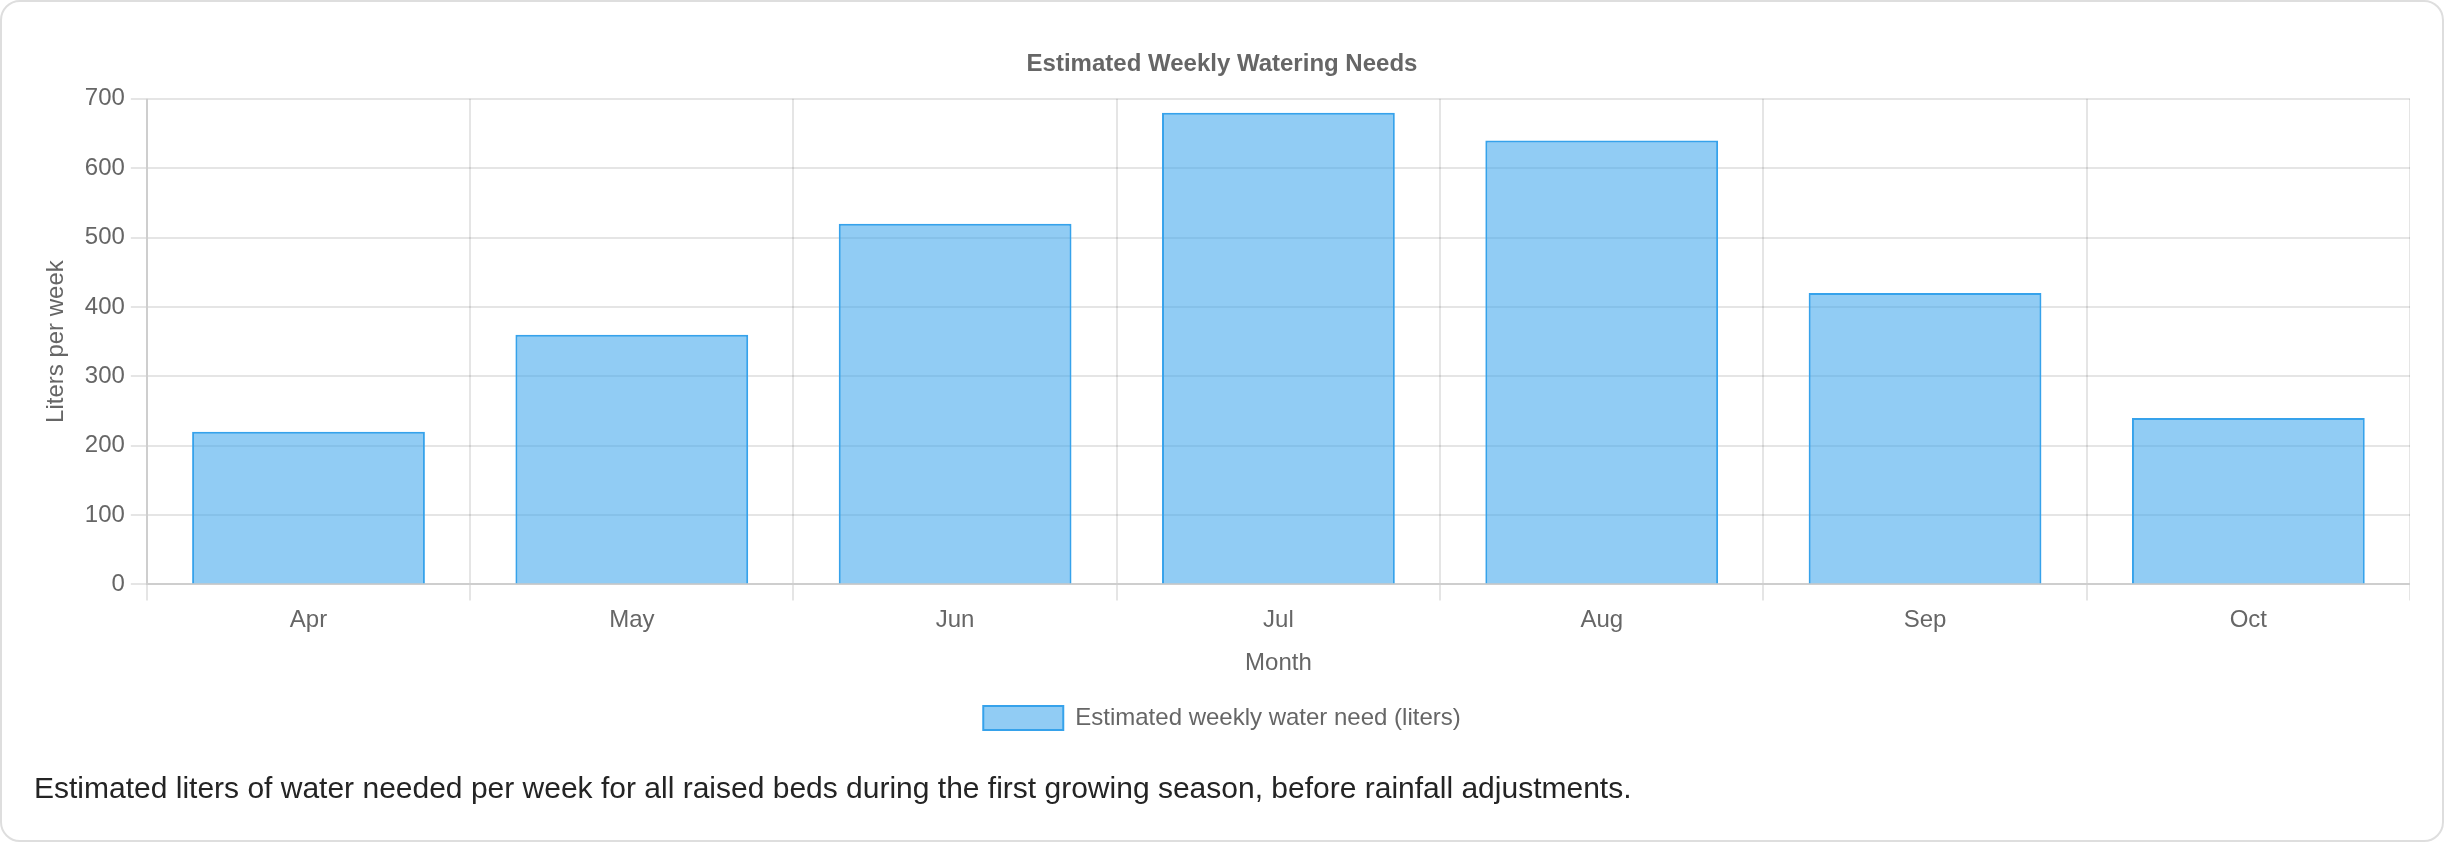
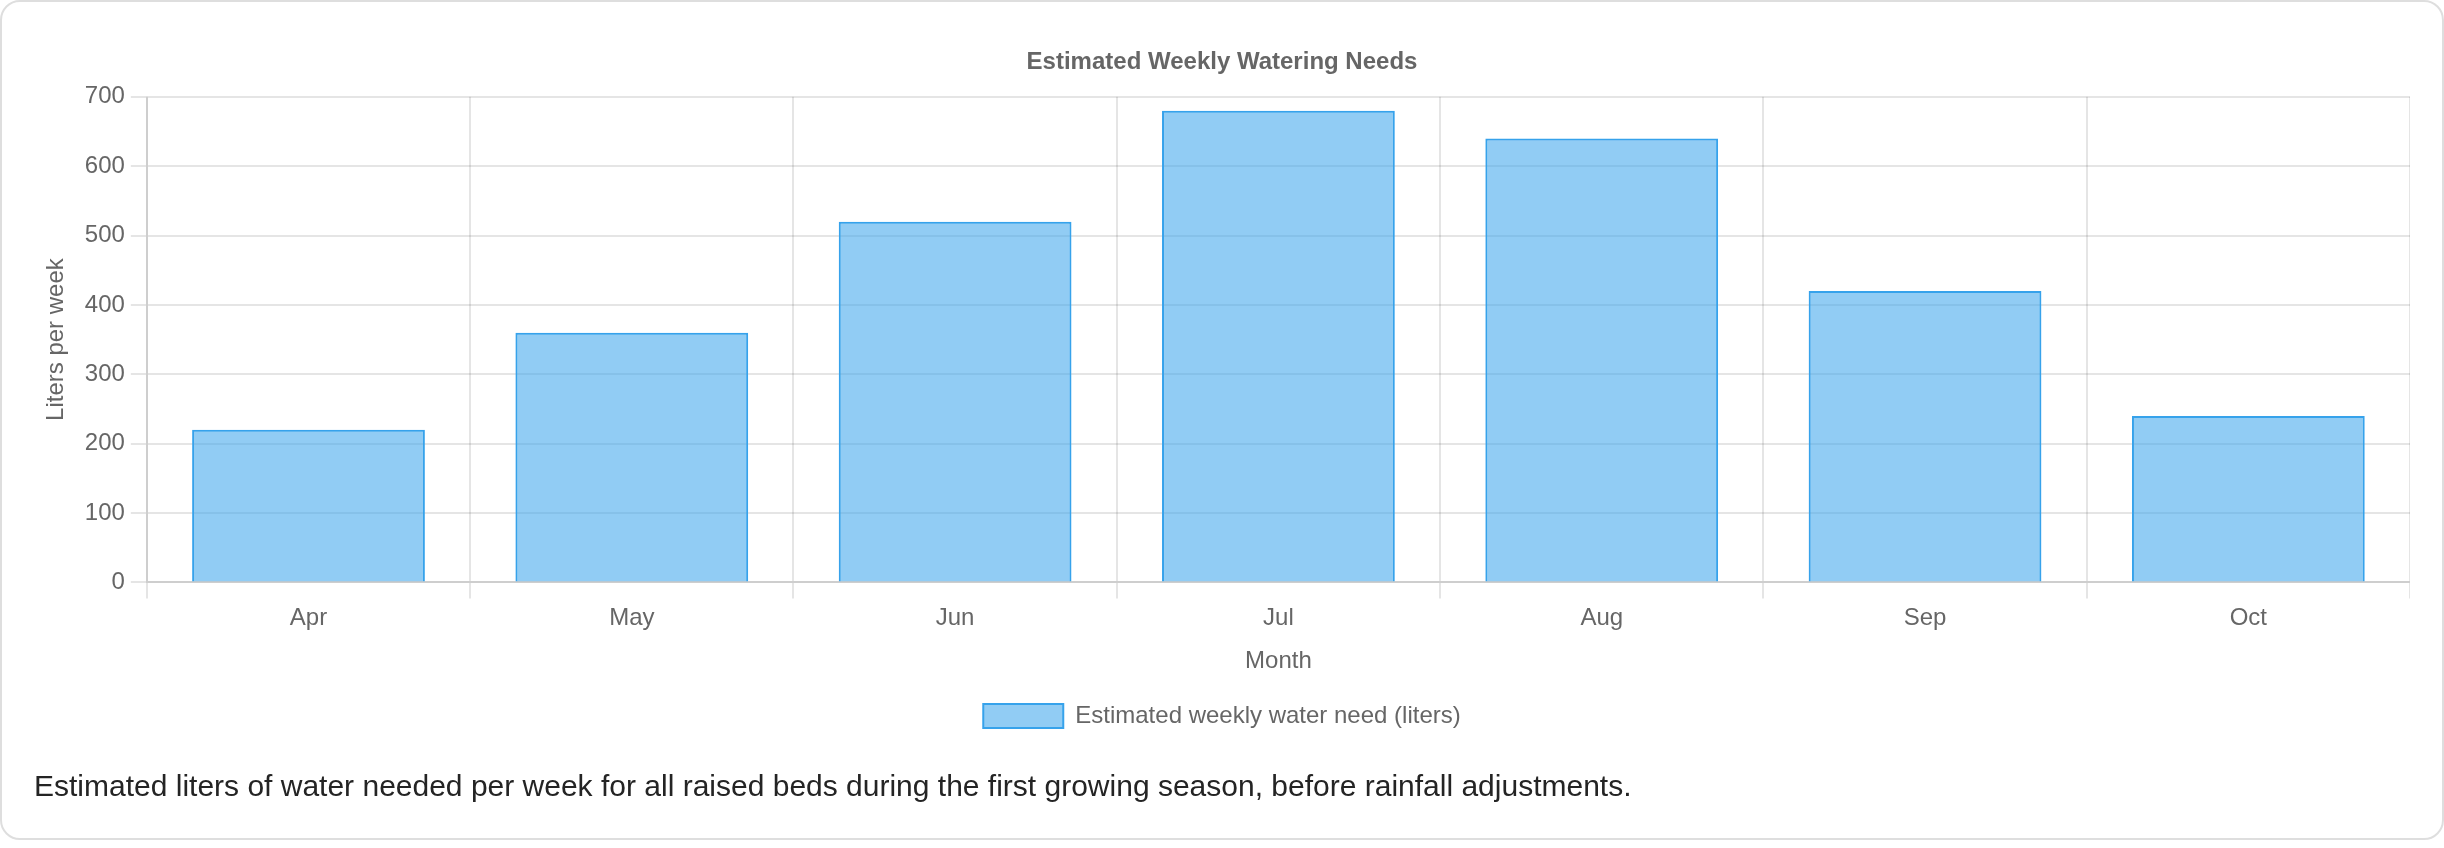
Restore zoom-safe tutorial screenshots
Adopt the pinned renderer output after the browser-zoom guard prevents the false Mermaid repair and restores the original tutorial layout.

diff --git a/site/dist/commentable-html/tutorial/index.html b/site/dist/commentable-html/tutorial/index.html
@@ -103,7 +103,7 @@
           <li>Click <strong>Add Comment</strong> and save a note. The copied bundle preserves the selected KQL as a fenced code quote.</li>
           <li>The <strong>Run in Azure Data Explorer</strong> link opens the same query in the Azure Data Explorer web UI, and the cluster name copies to your clipboard when you click it.</li>
           </ol>
-          <p><img src="assets/garden-02-kql.png?v=fe18abcaffba" alt="A highlighted KQL block with a Run in Azure Data Explorer link and a Copy button" loading="lazy" /></p>
+          <p><img src="assets/garden-02-kql.png?v=45eff7d27931" alt="A highlighted KQL block with a Run in Azure Data Explorer link and a Copy button" loading="lazy" /></p>
           <h3>6. Comment on the chart</h3>
           <ol>
           <li>Stay in <strong>Planting Schedule</strong> and find the watering-needs chart.</li>
@@ -111,7 +111,7 @@
           <li>To comment on the chart, hover it and click <strong>Add Comment</strong> at its corner (the same way you comment on an image), or select text in the chart caption.</li>
           <li>Save a note. A commented chart gets a highlighted outline so you can see at a glance which figures have feedback.</li>
           </ol>
-          <p><img src="assets/garden-03-chart.png?v=f01eb3a5709c" alt="The bar chart of weekly watering needs with a commentable caption" loading="lazy" /></p>
+          <p><img src="assets/garden-03-chart.png?v=fef603cb87f6" alt="The bar chart of weekly watering needs with a commentable caption" loading="lazy" /></p>
           <h3>7. Comment on an image</h3>
           <ol>
           <li>Go to <strong>Site Selection</strong> or <strong>Garden Layout</strong>.</li>
@@ -134,7 +134,7 @@
           <li>Or select a substring within a single diff line and click <strong>Add Comment</strong> to comment on only that region.</li>
           <li>Use the diff header button to switch between views: it reads <strong>To inline view</strong> while side-by-side and <strong>To side-by-side view</strong> while inline. Your comments stay attached either way.</li>
           </ol>
-          <p><img src="assets/garden-04-diff.png?v=7fc0c6e6da3e" alt="The unified diff block with the view toggle and a syntax-highlight toggle" loading="lazy" /></p>
+          <p><img src="assets/garden-04-diff.png?v=fc818b322402" alt="The unified diff block with the view toggle and a syntax-highlight toggle" loading="lazy" /></p>
           <h3>10. Work a review checklist</h3>
           <p>Some reports embed interactive review checklists - grouped items whose state you cycle as you verify each one. The community garden plan does not use them, so this step uses <a href="../demo/report-checklist.html"><code>examples/report-checklist.html</code></a>, which is built around a release-readiness checklist.</p>
           <ol>
